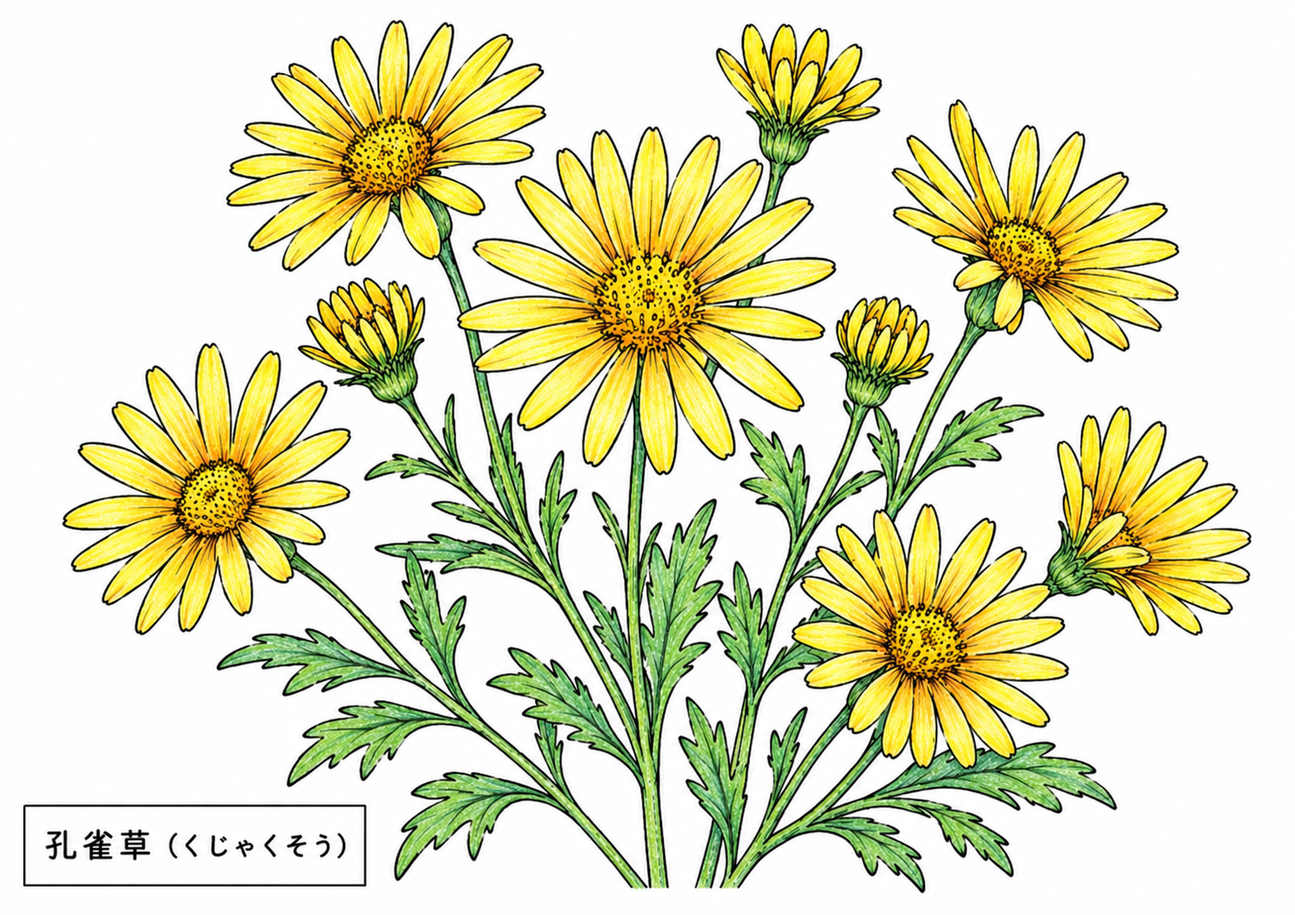
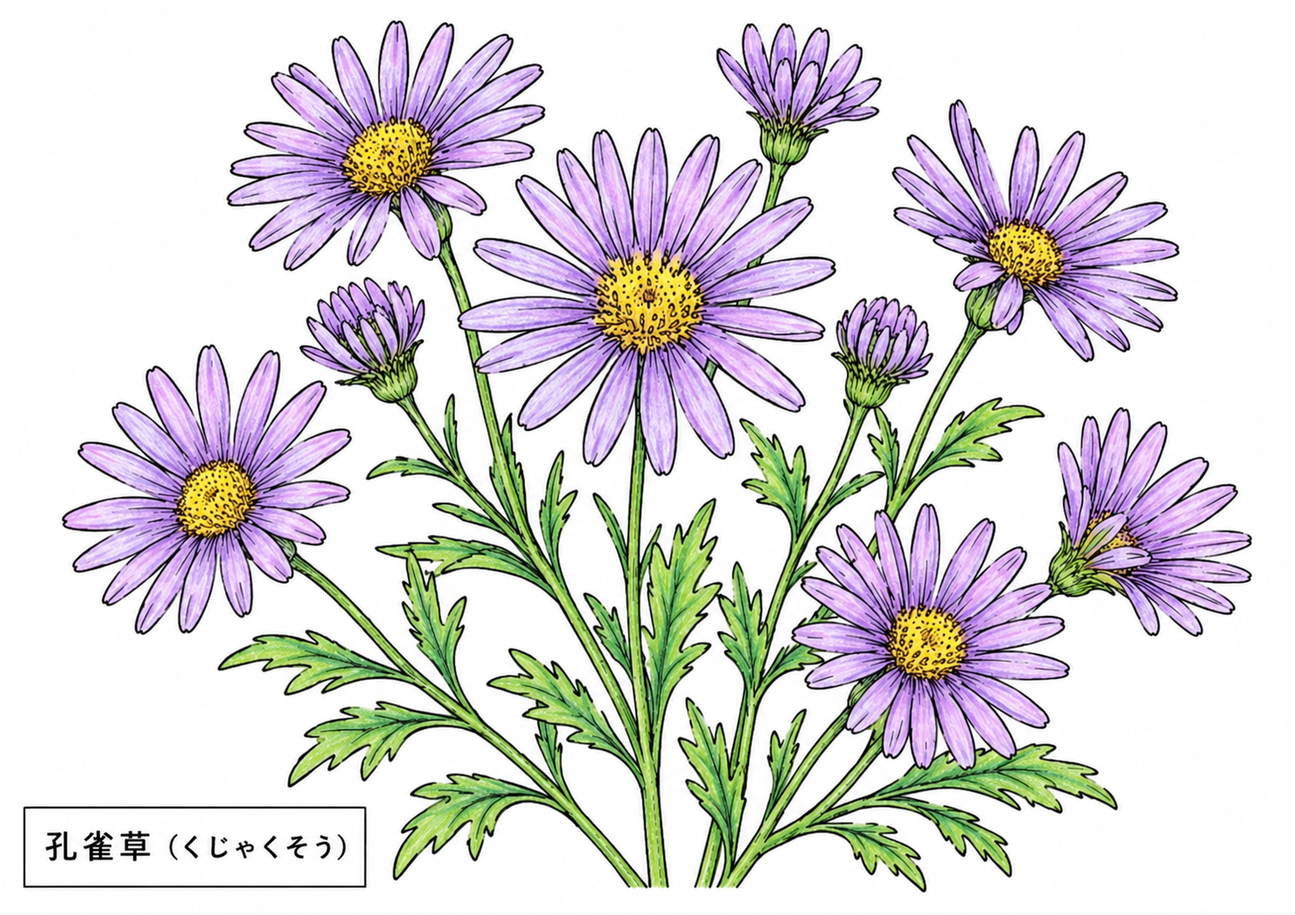
色見本を1点追加（照合済み）
Claude-Session: https://claude.ai/code/session_01G5ET7MVBvjhnxGfepP59sZ

diff --git a/data.js b/data.js
@@ -107,7 +107,7 @@ window.NURIE_LIST = [
   { season: "秋", genre: "花", title: "バラ", diff: "中級", file: "bara_aki_chu.png", sample: "bara_aki_chu_sample.jpg", v: "1792464793703" },
   { season: "秋", genre: "花", title: "ホトトギス", diff: "中級", file: "hototogisu_chu.png", sample: "hototogisu_chu_sample.jpg", v: "1792465253597" },
   { season: "秋", genre: "花", title: "リンドウ", diff: "中級", file: "rindou_chu.png", sample: "rindou_chu_sample.jpg", v: "1792465253597" },
-  { season: "秋", genre: "花", title: "孔雀草", diff: "中級", file: "kujakusou_chu.png", sample: "kujakusou_chu_sample.jpg", v: "1792465253597" },
+  { season: "秋", genre: "花", title: "孔雀草", diff: "中級", file: "kujakusou_chu.png", sample: "kujakusou_chu_sample.jpg", v: "1792466198668" },
   { season: "秋", genre: "花", title: "桔梗", diff: "中級", file: "kikyou_chu.png", sample: "kikyou_chu_sample.jpg", v: "1792465253597" },
   { season: "秋", genre: "花", title: "秋の七草", diff: "中級", file: "aki_nanakusa_chu.png", sample: "aki_nanakusa_chu_sample.jpg", v: "1792465253597" },
   { season: "秋", genre: "花", title: "菊", diff: "中級", file: "kiku_aki_chu.png", sample: "kiku_aki_chu_sample.jpg", v: "1792465663106" },
